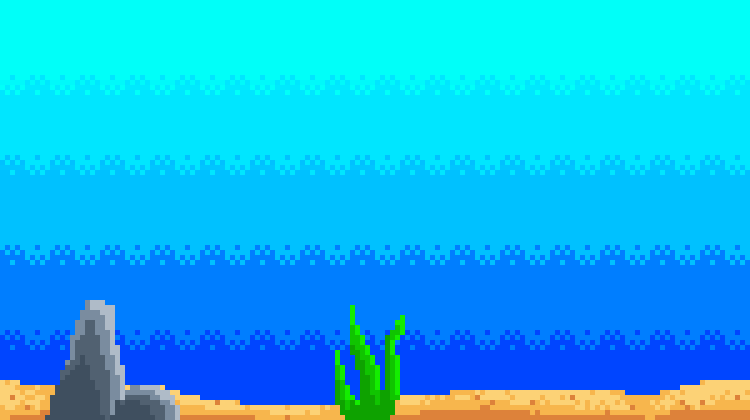
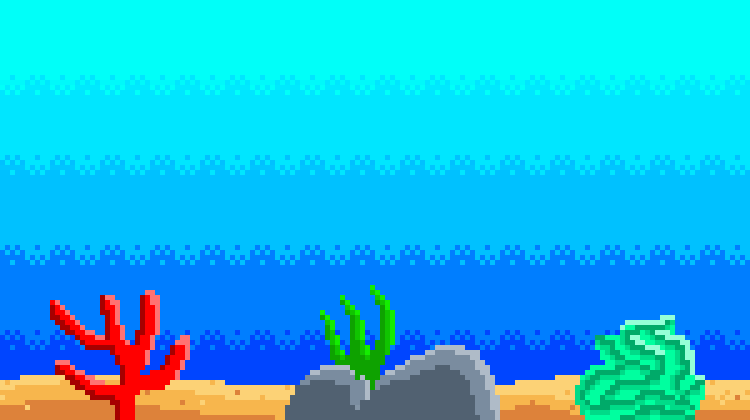
tambah aset + scroll background

Changed region(s): [[0.0, 0.681, 0.9507, 1.0]]

diff --git a/MyWorld.java b/MyWorld.java
@@ -2,17 +2,47 @@ import greenfoot.*;
 
 public class MyWorld extends World
 {
-    private DialogueBox dialogue;
-    private Koi fish;
+    private GreenfootImage bgA;
+    private GreenfootImage bgB;
+
+    private int scrollX = 0;
+    private int speed = 2;
+
     public MyWorld()
-    {    
+    {
         super(750, 420, 1);
 
-        setBackground("background.png");
-        
-        fish = new Koi();
-        addObject(fish, 150, 220);
+        bgA = new GreenfootImage("background.png");
+        bgB = new GreenfootImage("background1.png");
 
+        bgA.scale(750, 420);
+        bgB.scale(750, 420);
+
+        Koi fish = new Koi();
+        addObject(fish, 150, 220);
     }
-        
+
+    public void act()
+    {
+        scrollBackground();
+    }
+
+    private void scrollBackground()
+    {
+        scrollX -= speed;
+
+        if(scrollX <= -1500)
+        {
+            scrollX = 0;
+        }
+
+        GreenfootImage bg = getBackground();
+        bg.clear();
+
+        bg.drawImage(bgA, scrollX, 0);
+        bg.drawImage(bgB, scrollX + 750, 0);
+
+        bg.drawImage(bgA, scrollX + 1500, 0);
+        bg.drawImage(bgB, scrollX + 2250, 0);
+    }
 }

diff --git a/ScrollingBackground.java b/ScrollingBackground.java
@@ -1,0 +1,23 @@
+import greenfoot.*;
+
+public class ScrollingBackground extends Actor
+{
+    private int speed = 2;
+
+    public ScrollingBackground(String file)
+    {
+        GreenfootImage img = new GreenfootImage(file);
+        img.scale(750, 420);
+        setImage(img);
+    }
+
+    public void act()
+    {
+        setLocation(getX() - speed, getY());
+
+        if(getX() <= -375)
+        {
+            setLocation(getX() + 1500, getY());
+        }
+    }
+}
